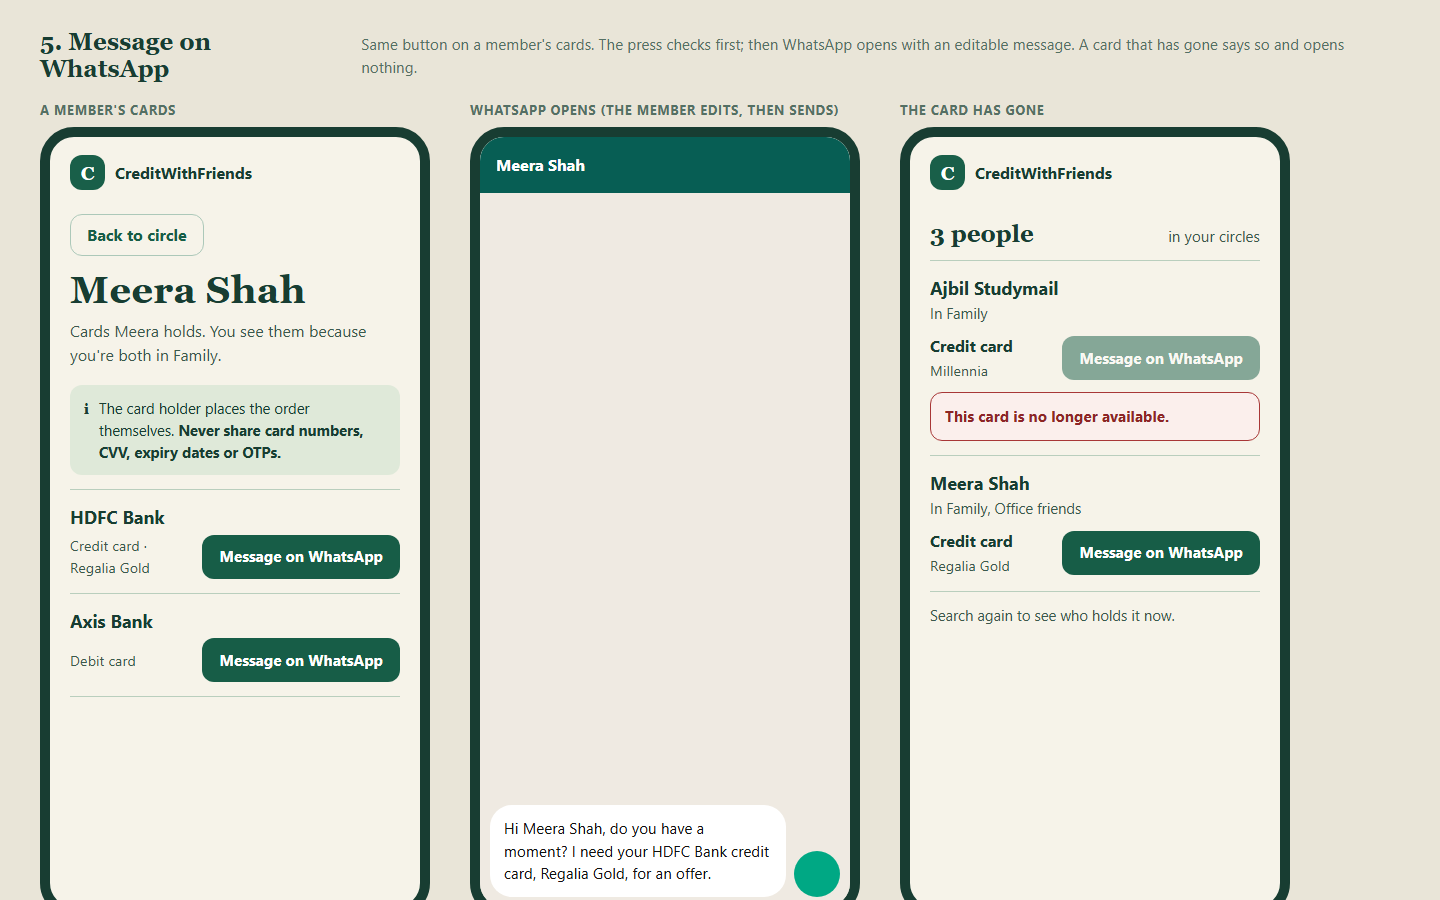
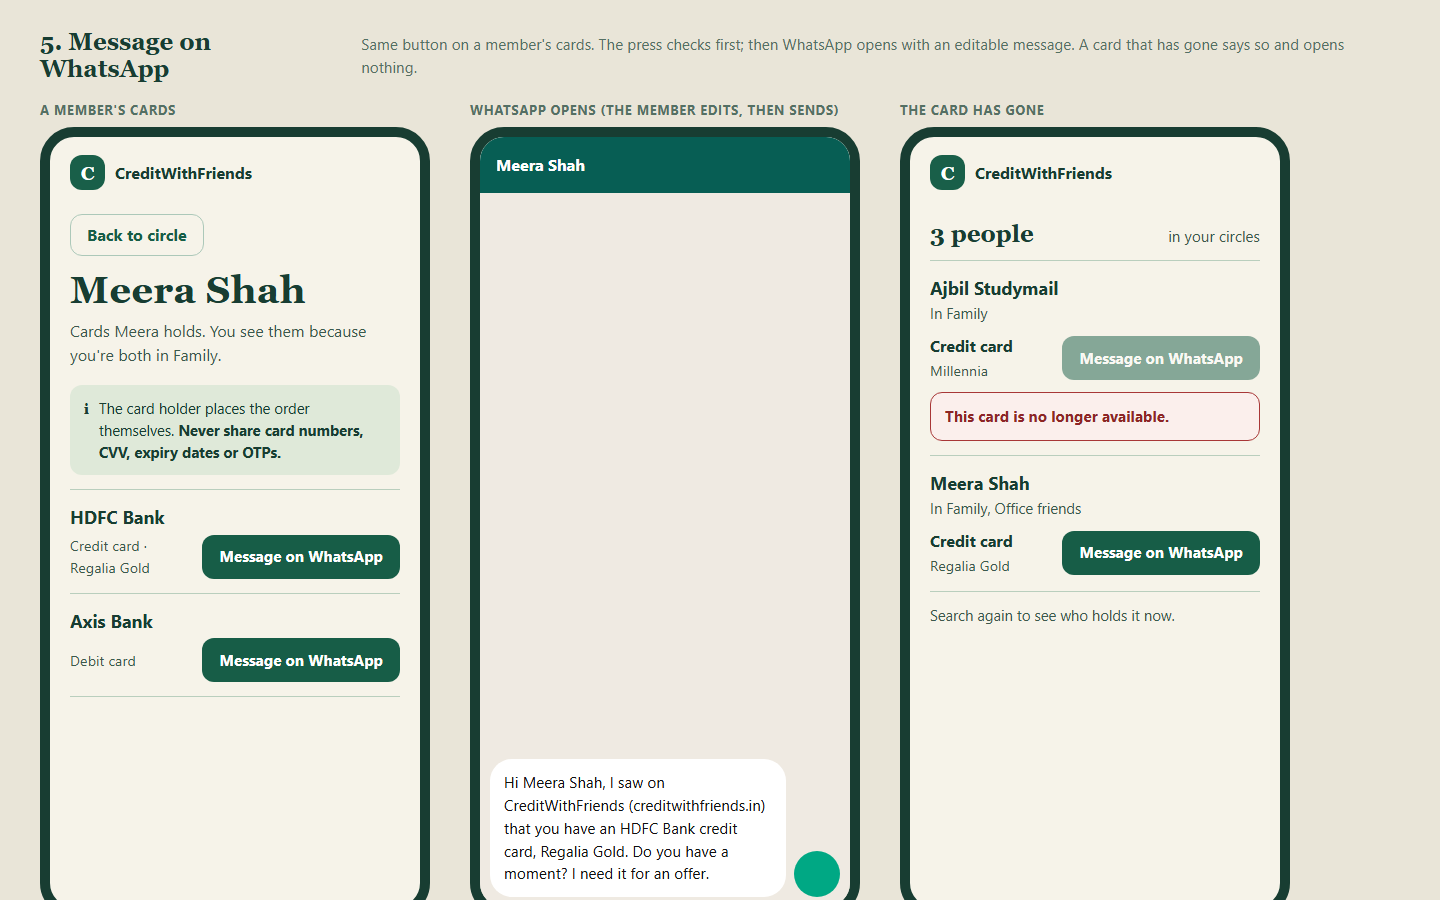
Name the app in the WhatsApp message design

Changed region(s): [[0.3125, 0.84, 0.5625, 0.9956]]

diff --git a/docs/design/CWF-4/05-contact.html b/docs/design/CWF-4/05-contact.html
@@ -24,7 +24,7 @@
     <div class="wa-screen">
       <div class="wa-top">Meera Shah</div>
       <div class="wa-body"></div>
-      <div class="wa-compose"><div>Hi Meera Shah, do you have a moment? I need your HDFC Bank credit card, Regalia Gold, for an offer.</div><span class="wa-send"></span></div>
+      <div class="wa-compose"><div>Hi Meera Shah, I saw on CreditWithFriends (creditwithfriends.in) that you have an HDFC Bank credit card, Regalia Gold. Do you have a moment? I need it for an offer.</div><span class="wa-send"></span></div>
     </div>
   </div></div>
   <div><div class="label">The card has gone</div>
